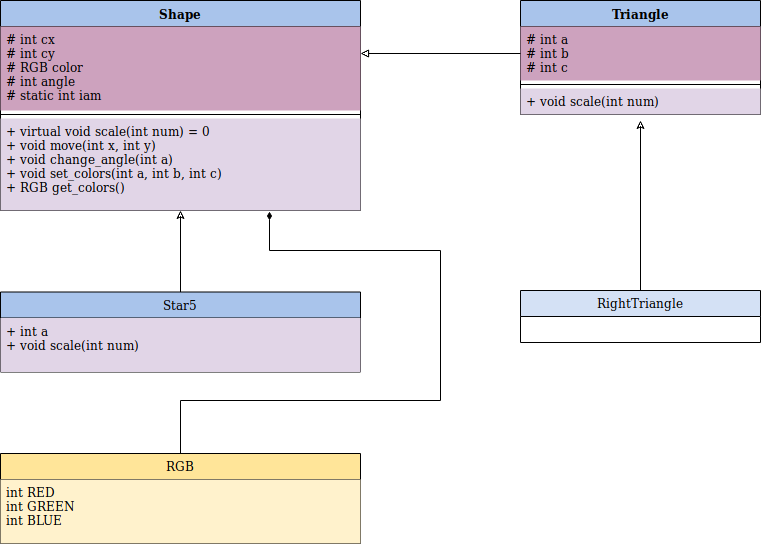
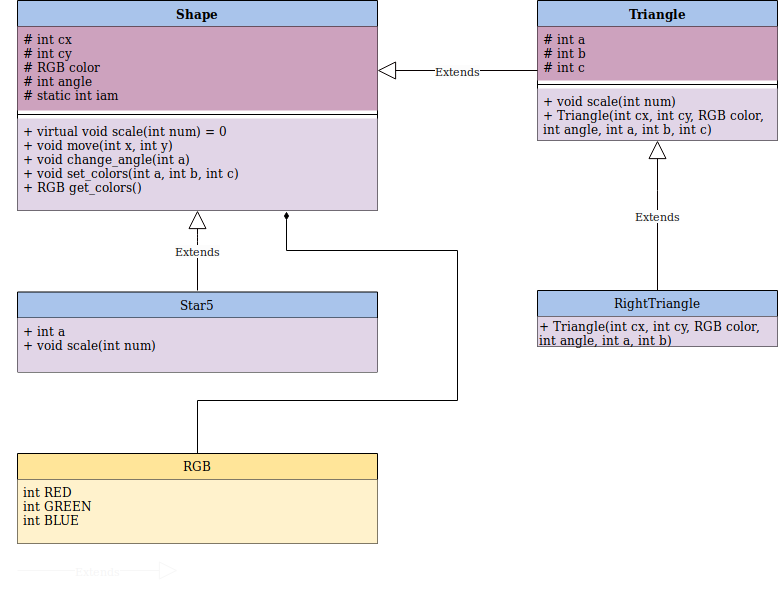
new new uml

Changed region(s): [[0.0, 0.0, 1.0, 0.6527], [0.0, 0.7148, 0.4836, 0.9945], [0.0, 0.4662, 0.6045, 0.6837]]

diff --git a/7382/DeryabinaPS/lab2/lab2.cpp b/7382/DeryabinaPS/lab2/lab2.cpp
@@ -56,6 +56,13 @@ public:
 		return color;
 	}
 
+	friend std::ostream& operator<<(std::ostream& out, Shape& sh){
+		out << "ID = " << iam << std::endl;
+		out << "centre: (" << sh.cx << ", " << sh.cy << ")" << std::endl;
+		out << "angle: " << sh.angle << std::endl;
+		out << "colors (RGB): " << sh.color.RED << ", " << sh.color.GREEN << ", " << sh.color.BLUE << std::endl;
+		out << std::endl;
+	}
 };
 
 class Triangle : public Shape
@@ -89,21 +96,12 @@ public:
 
 	}
 
-
-	friend std::ostream& operator<< (std::ostream& out, const Triangle &t)
-	{
-		out << "Triangle: " << std::endl;
-		out << "Center (" << t.cx << ", " << t.cy << ")" << std::endl;
-		out << "Sides: " << t.a << ", " << t.b << ", " << t.c << std::endl;
-		out << "Angle: " << t.angle << std::endl;
-		out << "Colors (RGB): " << t.color.RED << ", " << t.color.GREEN << ", " << t.color.BLUE << std::endl;
-		out << "ID: " << t.iam << std:: endl;
-	}
-
 };
 
 class RightTriangle : public Triangle
 {
+protected:
+	std::string name = "RightTriangle";
 public:
 	RightTriangle() : Triangle()
 	{}
@@ -111,21 +109,13 @@ public:
 	RightTriangle(int cx, int cy, RGB c, int angle, int a, int b) : Triangle(cx, cy, c, angle, a, b, sqrt(pow(a, 2) + pow(b, 2)))
 	{}
 
-        friend std::ostream& operator<< (std::ostream& out, const RightTriangle &t)
-        {
-                out << "RightTriangle: " << std::endl;
-                out << "Center (" << t.cx << ", " << t.cy << ")" << std::endl;
-                out << "Sides: " << t.a << ", " << t.b << ", " << t.c << std::endl;
-                out << "Angle: " << t.angle << std::endl;
-		out << "Colors (RGB): " << t.color.RED << ", " << t.color.GREEN << ", " << t.color.BLUE << std::endl;
-		out << "ID: " << t.iam << std:: endl;
-        }
 };
 
 class Star5 : public Shape
 {
 public:
 	int a;
+	std::string name = "Five-pointed star";
 
 	Star5() : Shape(), a(0)
 	{}
@@ -143,16 +133,6 @@ public:
 		{
 			a /= abs(num);
 		}
-	}
-
-	friend std::ostream& operator<< (std::ostream& out, const Star5 &s)
-	{
-		out << "Five-pointed star:" << std::endl;
-		out << "Center (" << s.cx << ", " << s.cy << ")"  << std::endl;
-		out << "Side: " << s.a << std::endl;
-		out << "Angle: " << s.angle << std::endl;
-		out << "Colors (RGB): " << s.color.RED << ", " << s.color.GREEN << ", " << s.color.BLUE << std::endl;
-		out << "ID: " << s.iam << std:: endl;
 	}
 
 };
@@ -206,4 +186,11 @@ int main(){
 
         std::cout << st << std::endl;
 
+/*
+	Triangle tri(0, 0, {1,2,3}, 45, 10, 20, 30), *ptri;
+	std::cout << tri;
+	RightTriangle rtri(1,1, {1,2,3}, 90, 10, 20), *prtri;
+	std::cout << rtri;
+	ptri = &rtri;
+	std::cout << *ptri;*/
 }
